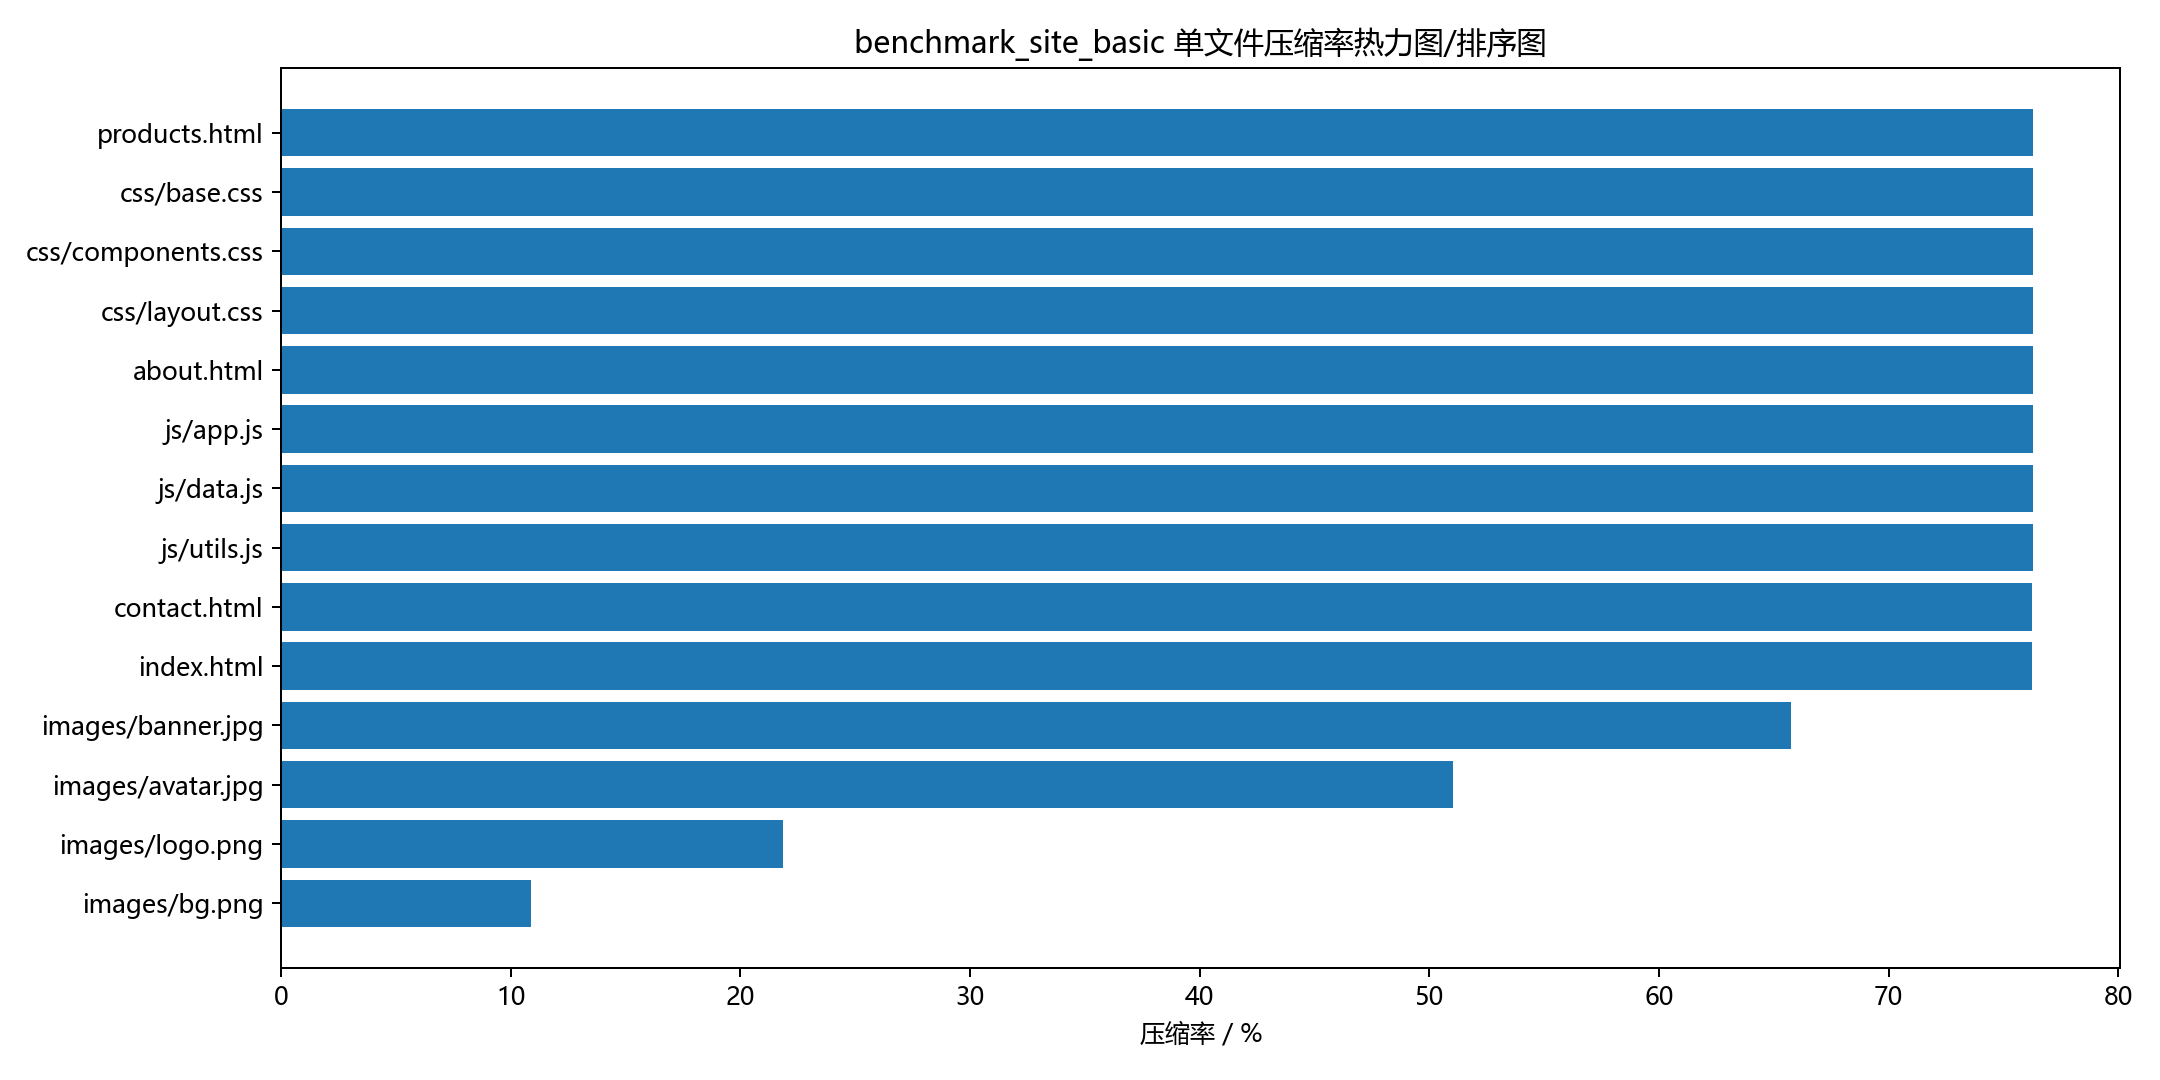
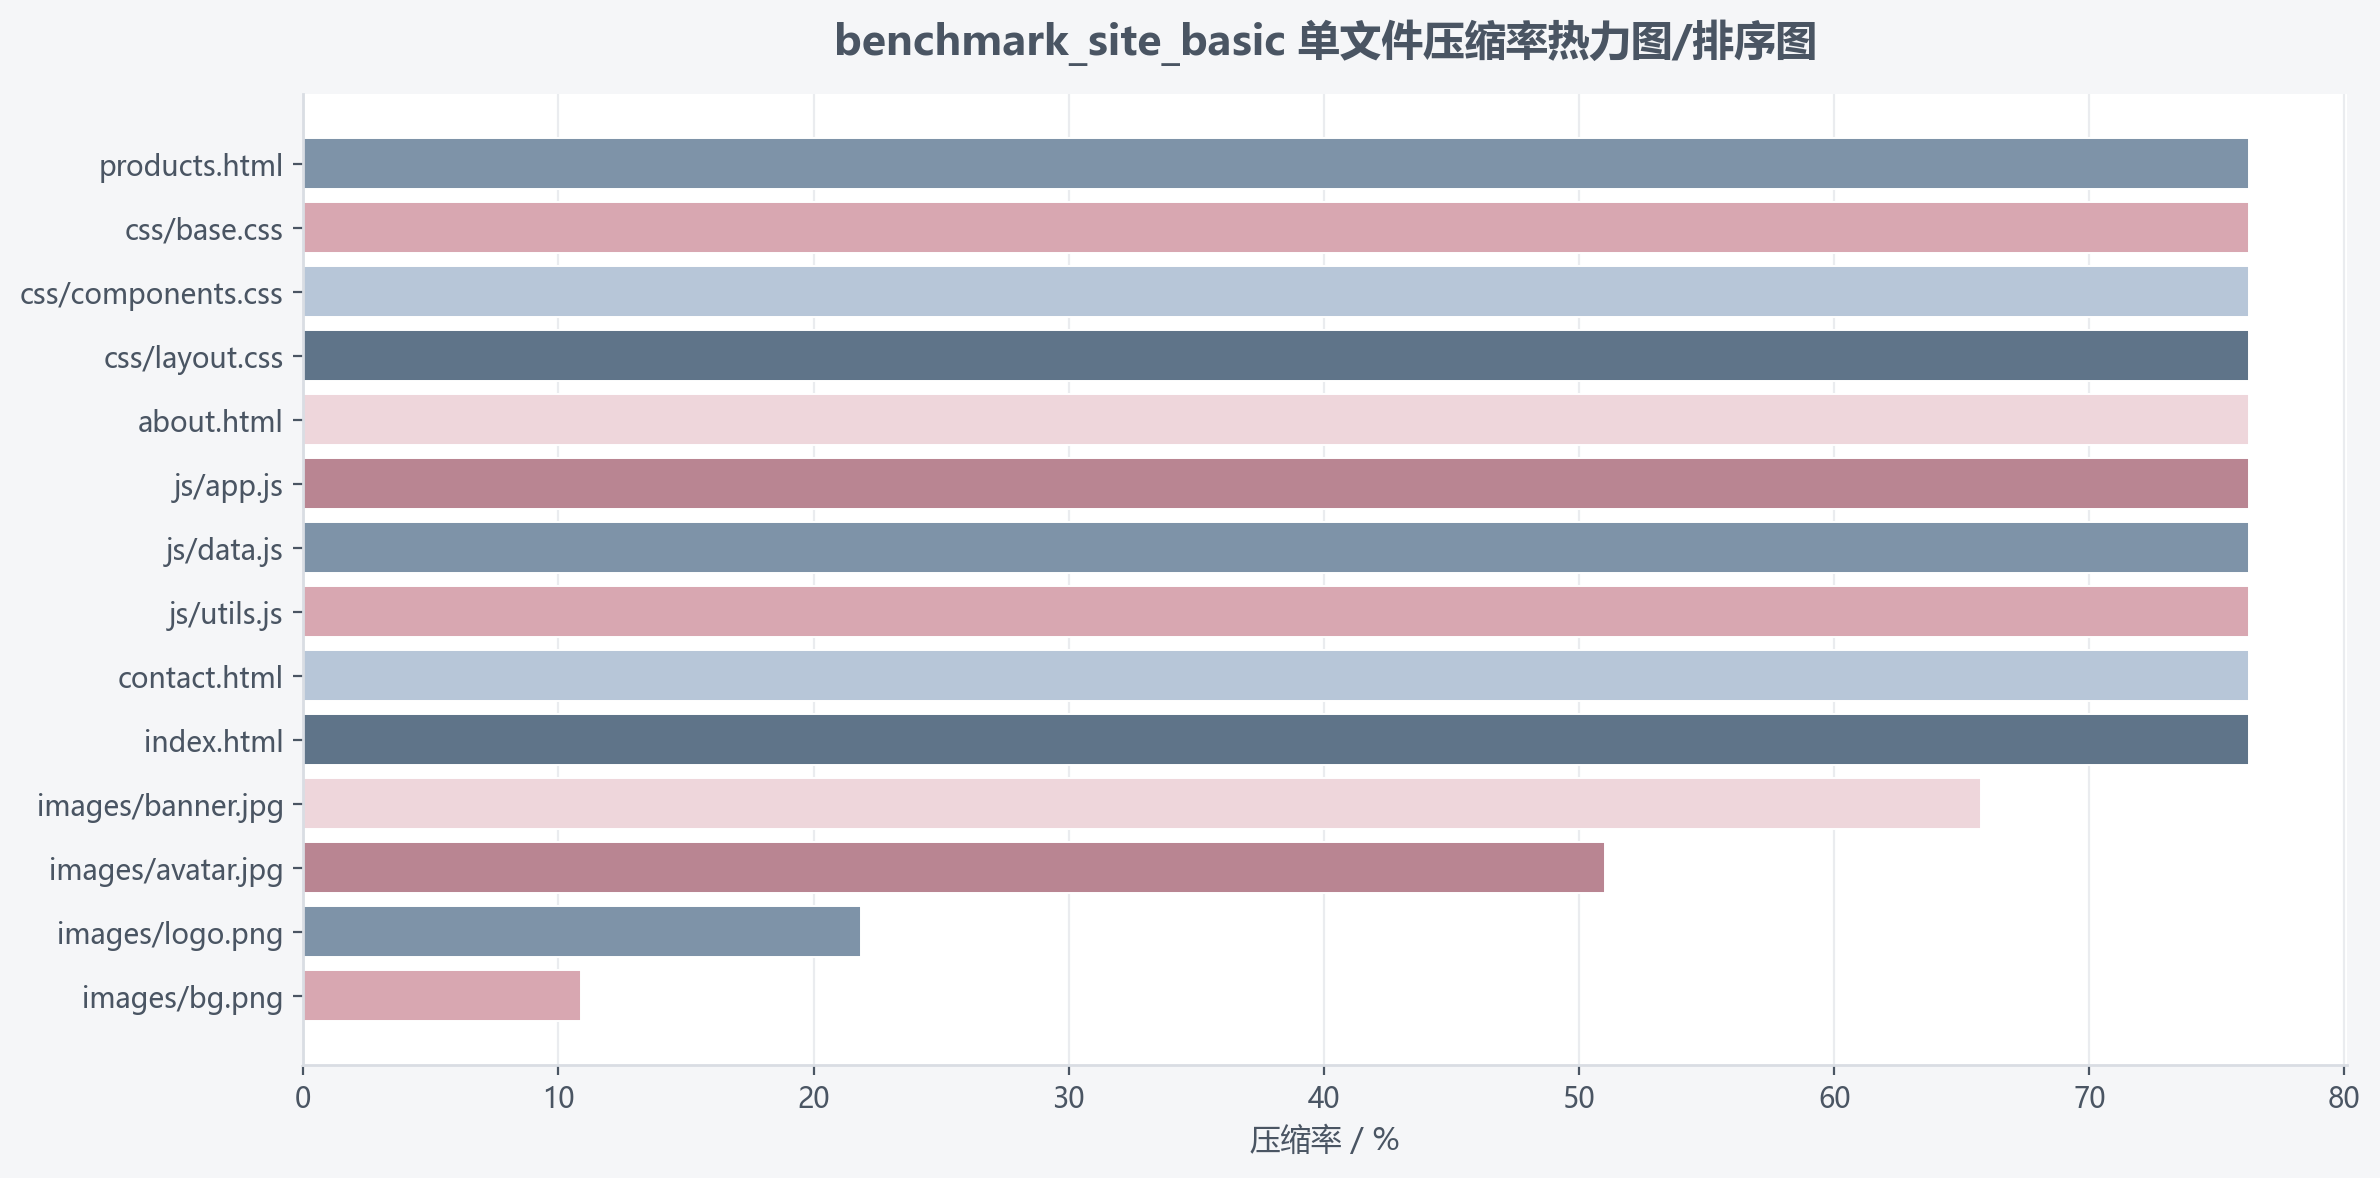
修改了图表配色

diff --git a/experiments/export_charts.py b/experiments/export_charts.py
@@ -14,6 +14,37 @@ SUMMARY_CSV = os.path.join(REPORT_DIR, "experiment_summary.csv")
 DETAIL_CSV = os.path.join(REPORT_DIR, "file_detail.csv")
 TRANSMISSION_CSV = os.path.join(REPORT_DIR, "transmission_report.csv")
 
+BLUE_GRAY_MAIN = "#7E93A8"
+BLUE_GRAY_DARK = "#5F7489"
+BLUE_GRAY_LIGHT = "#B7C6D8"
+DUSTY_PINK_MAIN = "#D8A7B1"
+DUSTY_PINK_DARK = "#B98592"
+DUSTY_PINK_LIGHT = "#EED6DB"
+BG_LIGHT = "#F5F6F8"
+BORDER_GRAY = "#D9DDE3"
+TEXT_DARK = "#4A5563"
+WHITE = "#FFFFFF"
+CHART_DPI = 200
+
+SERIES_COLORS = {
+    "自研系统": BLUE_GRAY_MAIN,
+    "ZIP": DUSTY_PINK_MAIN,
+    "tar.gz": BLUE_GRAY_LIGHT,
+    "原始资源": BLUE_GRAY_DARK,
+    "文本资源": BLUE_GRAY_MAIN,
+    "图片资源": DUSTY_PINK_MAIN,
+    "其他资源": DUSTY_PINK_LIGHT,
+}
+
+SOFT_PALETTE = [
+    BLUE_GRAY_MAIN,
+    DUSTY_PINK_MAIN,
+    BLUE_GRAY_LIGHT,
+    BLUE_GRAY_DARK,
+    DUSTY_PINK_LIGHT,
+    DUSTY_PINK_DARK,
+]
+
 
 def ensure_dir(path: str):
     os.makedirs(path, exist_ok=True)
@@ -42,6 +73,64 @@ def setup_font():
     # Windows 下优先使用微软雅黑，避免中文乱码
     plt.rcParams["font.sans-serif"] = ["Microsoft YaHei", "SimHei", "Arial"]
     plt.rcParams["axes.unicode_minus"] = False
+    plt.rcParams["figure.facecolor"] = BG_LIGHT
+    plt.rcParams["axes.facecolor"] = WHITE
+    plt.rcParams["axes.edgecolor"] = BORDER_GRAY
+    plt.rcParams["axes.labelcolor"] = TEXT_DARK
+    plt.rcParams["axes.titlecolor"] = TEXT_DARK
+    plt.rcParams["axes.titlesize"] = 15
+    plt.rcParams["axes.titleweight"] = "semibold"
+    plt.rcParams["axes.labelsize"] = 11
+    plt.rcParams["xtick.color"] = TEXT_DARK
+    plt.rcParams["ytick.color"] = TEXT_DARK
+    plt.rcParams["legend.frameon"] = True
+    plt.rcParams["legend.facecolor"] = WHITE
+    plt.rcParams["legend.edgecolor"] = BORDER_GRAY
+    plt.rcParams["legend.fontsize"] = 10
+    plt.rcParams["text.color"] = TEXT_DARK
+
+
+def make_figure(figsize):
+    fig, ax = plt.subplots(figsize=figsize, facecolor=BG_LIGHT)
+    ax.set_facecolor(WHITE)
+    return fig, ax
+
+
+def apply_axis_style(ax, grid_axis="y"):
+    ax.tick_params(axis="both", colors=TEXT_DARK, labelsize=10)
+    ax.title.set_color(TEXT_DARK)
+    ax.xaxis.label.set_color(TEXT_DARK)
+    ax.yaxis.label.set_color(TEXT_DARK)
+    ax.grid(axis=grid_axis, color=BORDER_GRAY, alpha=0.55, linewidth=0.8)
+    ax.set_axisbelow(True)
+
+    for side in ("top", "right"):
+        ax.spines[side].set_visible(False)
+    for side in ("left", "bottom"):
+        ax.spines[side].set_color(BORDER_GRAY)
+        ax.spines[side].set_linewidth(1.0)
+
+
+def apply_legend_style(ax):
+    legend = ax.legend()
+    if legend is None:
+        return
+
+    legend.get_frame().set_facecolor(WHITE)
+    legend.get_frame().set_edgecolor(BORDER_GRAY)
+    legend.get_frame().set_alpha(0.92)
+    for text in legend.get_texts():
+        text.set_color(TEXT_DARK)
+
+
+def color_sequence(count):
+    return [SOFT_PALETTE[i % len(SOFT_PALETTE)] for i in range(count)]
+
+
+def save_chart(fig, path):
+    fig.tight_layout()
+    fig.savefig(path, dpi=CHART_DPI, facecolor=fig.get_facecolor(), bbox_inches="tight")
+    plt.close(fig)
 
 
 def save_total_compression_rate(summary_rows):
@@ -53,20 +142,31 @@ def save_total_compression_rate(summary_rows):
     x = range(len(samples))
     width = 0.25
 
-    plt.figure(figsize=(10, 6))
-    plt.bar([i - width for i in x], system_rates, width, label="自研系统")
-    plt.bar(x, zip_rates, width, label="ZIP")
-    plt.bar([i + width for i in x], gzip_rates, width, label="tar.gz")
+    fig, ax = make_figure(figsize=(10, 6))
+    ax.bar(
+        [i - width for i in x], system_rates, width,
+        label="自研系统", color=SERIES_COLORS["自研系统"],
+        edgecolor=WHITE, linewidth=0.8
+    )
+    ax.bar(
+        x, zip_rates, width,
+        label="ZIP", color=SERIES_COLORS["ZIP"],
+        edgecolor=WHITE, linewidth=0.8
+    )
+    ax.bar(
+        [i + width for i in x], gzip_rates, width,
+        label="tar.gz", color=SERIES_COLORS["tar.gz"],
+        edgecolor=WHITE, linewidth=0.8
+    )
 
-    plt.xticks(list(x), samples)
-    plt.ylabel("压缩率 / %")
-    plt.title("不同样本下的总体压缩率对比")
-    plt.legend()
-    plt.tight_layout()
+    ax.set_xticks(list(x), samples)
+    ax.set_ylabel("压缩率 / %")
+    ax.set_title("不同样本下的总体压缩率对比", pad=14)
+    apply_axis_style(ax)
+    apply_legend_style(ax)
 
     path = os.path.join(CHART_DIR, "total_compression_rate.png")
-    plt.savefig(path, dpi=180)
-    plt.close()
+    save_chart(fig, path)
     print(f"已生成: {path}")
 
 
@@ -78,19 +178,26 @@ def save_text_image_compression_rate(summary_rows):
     x = range(len(samples))
     width = 0.35
 
-    plt.figure(figsize=(10, 6))
-    plt.bar([i - width / 2 for i in x], text_rates, width, label="文本资源")
-    plt.bar([i + width / 2 for i in x], image_rates, width, label="图片资源")
+    fig, ax = make_figure(figsize=(10, 6))
+    ax.bar(
+        [i - width / 2 for i in x], text_rates, width,
+        label="文本资源", color=SERIES_COLORS["文本资源"],
+        edgecolor=WHITE, linewidth=0.8
+    )
+    ax.bar(
+        [i + width / 2 for i in x], image_rates, width,
+        label="图片资源", color=SERIES_COLORS["图片资源"],
+        edgecolor=WHITE, linewidth=0.8
+    )
 
-    plt.xticks(list(x), samples)
-    plt.ylabel("压缩率 / %")
-    plt.title("文本资源与图片资源压缩率对比")
-    plt.legend()
-    plt.tight_layout()
+    ax.set_xticks(list(x), samples)
+    ax.set_ylabel("压缩率 / %")
+    ax.set_title("文本资源与图片资源压缩率对比", pad=14)
+    apply_axis_style(ax)
+    apply_legend_style(ax)
 
     path = os.path.join(CHART_DIR, "text_image_compression_rate.png")
-    plt.savefig(path, dpi=180)
-    plt.close()
+    save_chart(fig, path)
     print(f"已生成: {path}")
 
 
@@ -119,14 +226,25 @@ def save_resource_type_pie(summary_rows):
             labels.append("其他资源")
             sizes.append(unsupported_size)
 
-        plt.figure(figsize=(7, 7))
-        plt.pie(sizes, labels=labels, autopct="%1.1f%%", startangle=90)
-        plt.title(f"{sample} 原始资源类型占比")
-        plt.tight_layout()
+        fig, ax = make_figure(figsize=(7, 7))
+        colors = [SERIES_COLORS.get(label, SOFT_PALETTE[i % len(SOFT_PALETTE)]) for i, label in enumerate(labels)]
+        _wedges, _texts, autotexts = ax.pie(
+            sizes,
+            labels=labels,
+            autopct="%1.1f%%",
+            startangle=90,
+            colors=colors,
+            wedgeprops={"edgecolor": WHITE, "linewidth": 1.2},
+            textprops={"color": TEXT_DARK, "fontsize": 10},
+        )
+        for text in autotexts:
+            text.set_color(TEXT_DARK)
+            text.set_fontsize(10)
+        ax.set_title(f"{sample} 原始资源类型占比", pad=14)
+        ax.axis("equal")
 
         path = os.path.join(CHART_DIR, f"{sample}_resource_type_pie.png")
-        plt.savefig(path, dpi=180)
-        plt.close()
+        save_chart(fig, path)
         print(f"已生成: {path}")
 
 
@@ -150,16 +268,15 @@ def save_file_compression_heatmap(detail_rows):
         # 文件太多时图会很长，所以动态调整高度
         height = max(6, len(rows) * 0.35)
 
-        plt.figure(figsize=(12, height))
-        plt.barh(names, rates)
-        plt.xlabel("压缩率 / %")
-        plt.title(f"{sample} 单文件压缩率热力图/排序图")
-        plt.gca().invert_yaxis()
-        plt.tight_layout()
+        fig, ax = make_figure(figsize=(12, height))
+        ax.barh(names, rates, color=color_sequence(len(rates)), edgecolor=WHITE, linewidth=0.7)
+        ax.set_xlabel("压缩率 / %")
+        ax.set_title(f"{sample} 单文件压缩率热力图/排序图", pad=14)
+        ax.invert_yaxis()
+        apply_axis_style(ax, grid_axis="x")
 
         path = os.path.join(CHART_DIR, f"{sample}_file_compression_heatmap.png")
-        plt.savefig(path, dpi=180)
-        plt.close()
+        save_chart(fig, path)
         print(f"已生成: {path}")
 
 
@@ -178,21 +295,36 @@ def save_transmission_compare(transmission_rows):
         x = range(len(networks))
         width = 0.2
 
-        plt.figure(figsize=(10, 6))
-        plt.bar([i - 1.5 * width for i in x], original_times, width, label="原始资源")
-        plt.bar([i - 0.5 * width for i in x], system_times, width, label="自研系统")
-        plt.bar([i + 0.5 * width for i in x], zip_times, width, label="ZIP")
-        plt.bar([i + 1.5 * width for i in x], gzip_times, width, label="tar.gz")
+        fig, ax = make_figure(figsize=(10, 6))
+        ax.bar(
+            [i - 1.5 * width for i in x], original_times, width,
+            label="原始资源", color=SERIES_COLORS["原始资源"],
+            edgecolor=WHITE, linewidth=0.8
+        )
+        ax.bar(
+            [i - 0.5 * width for i in x], system_times, width,
+            label="自研系统", color=SERIES_COLORS["自研系统"],
+            edgecolor=WHITE, linewidth=0.8
+        )
+        ax.bar(
+            [i + 0.5 * width for i in x], zip_times, width,
+            label="ZIP", color=SERIES_COLORS["ZIP"],
+            edgecolor=WHITE, linewidth=0.8
+        )
+        ax.bar(
+            [i + 1.5 * width for i in x], gzip_times, width,
+            label="tar.gz", color=SERIES_COLORS["tar.gz"],
+            edgecolor=WHITE, linewidth=0.8
+        )
 
-        plt.xticks(list(x), networks)
-        plt.ylabel("传输时间 / 秒")
-        plt.title(f"{sample} 不同网络环境下传输时间对比")
-        plt.legend()
-        plt.tight_layout()
+        ax.set_xticks(list(x), networks)
+        ax.set_ylabel("传输时间 / 秒")
+        ax.set_title(f"{sample} 不同网络环境下传输时间对比", pad=14)
+        apply_axis_style(ax)
+        apply_legend_style(ax)
 
         path = os.path.join(CHART_DIR, f"{sample}_transmission_compare.png")
-        plt.savefig(path, dpi=180)
-        plt.close()
+        save_chart(fig, path)
         print(f"已生成: {path}")
 
 
